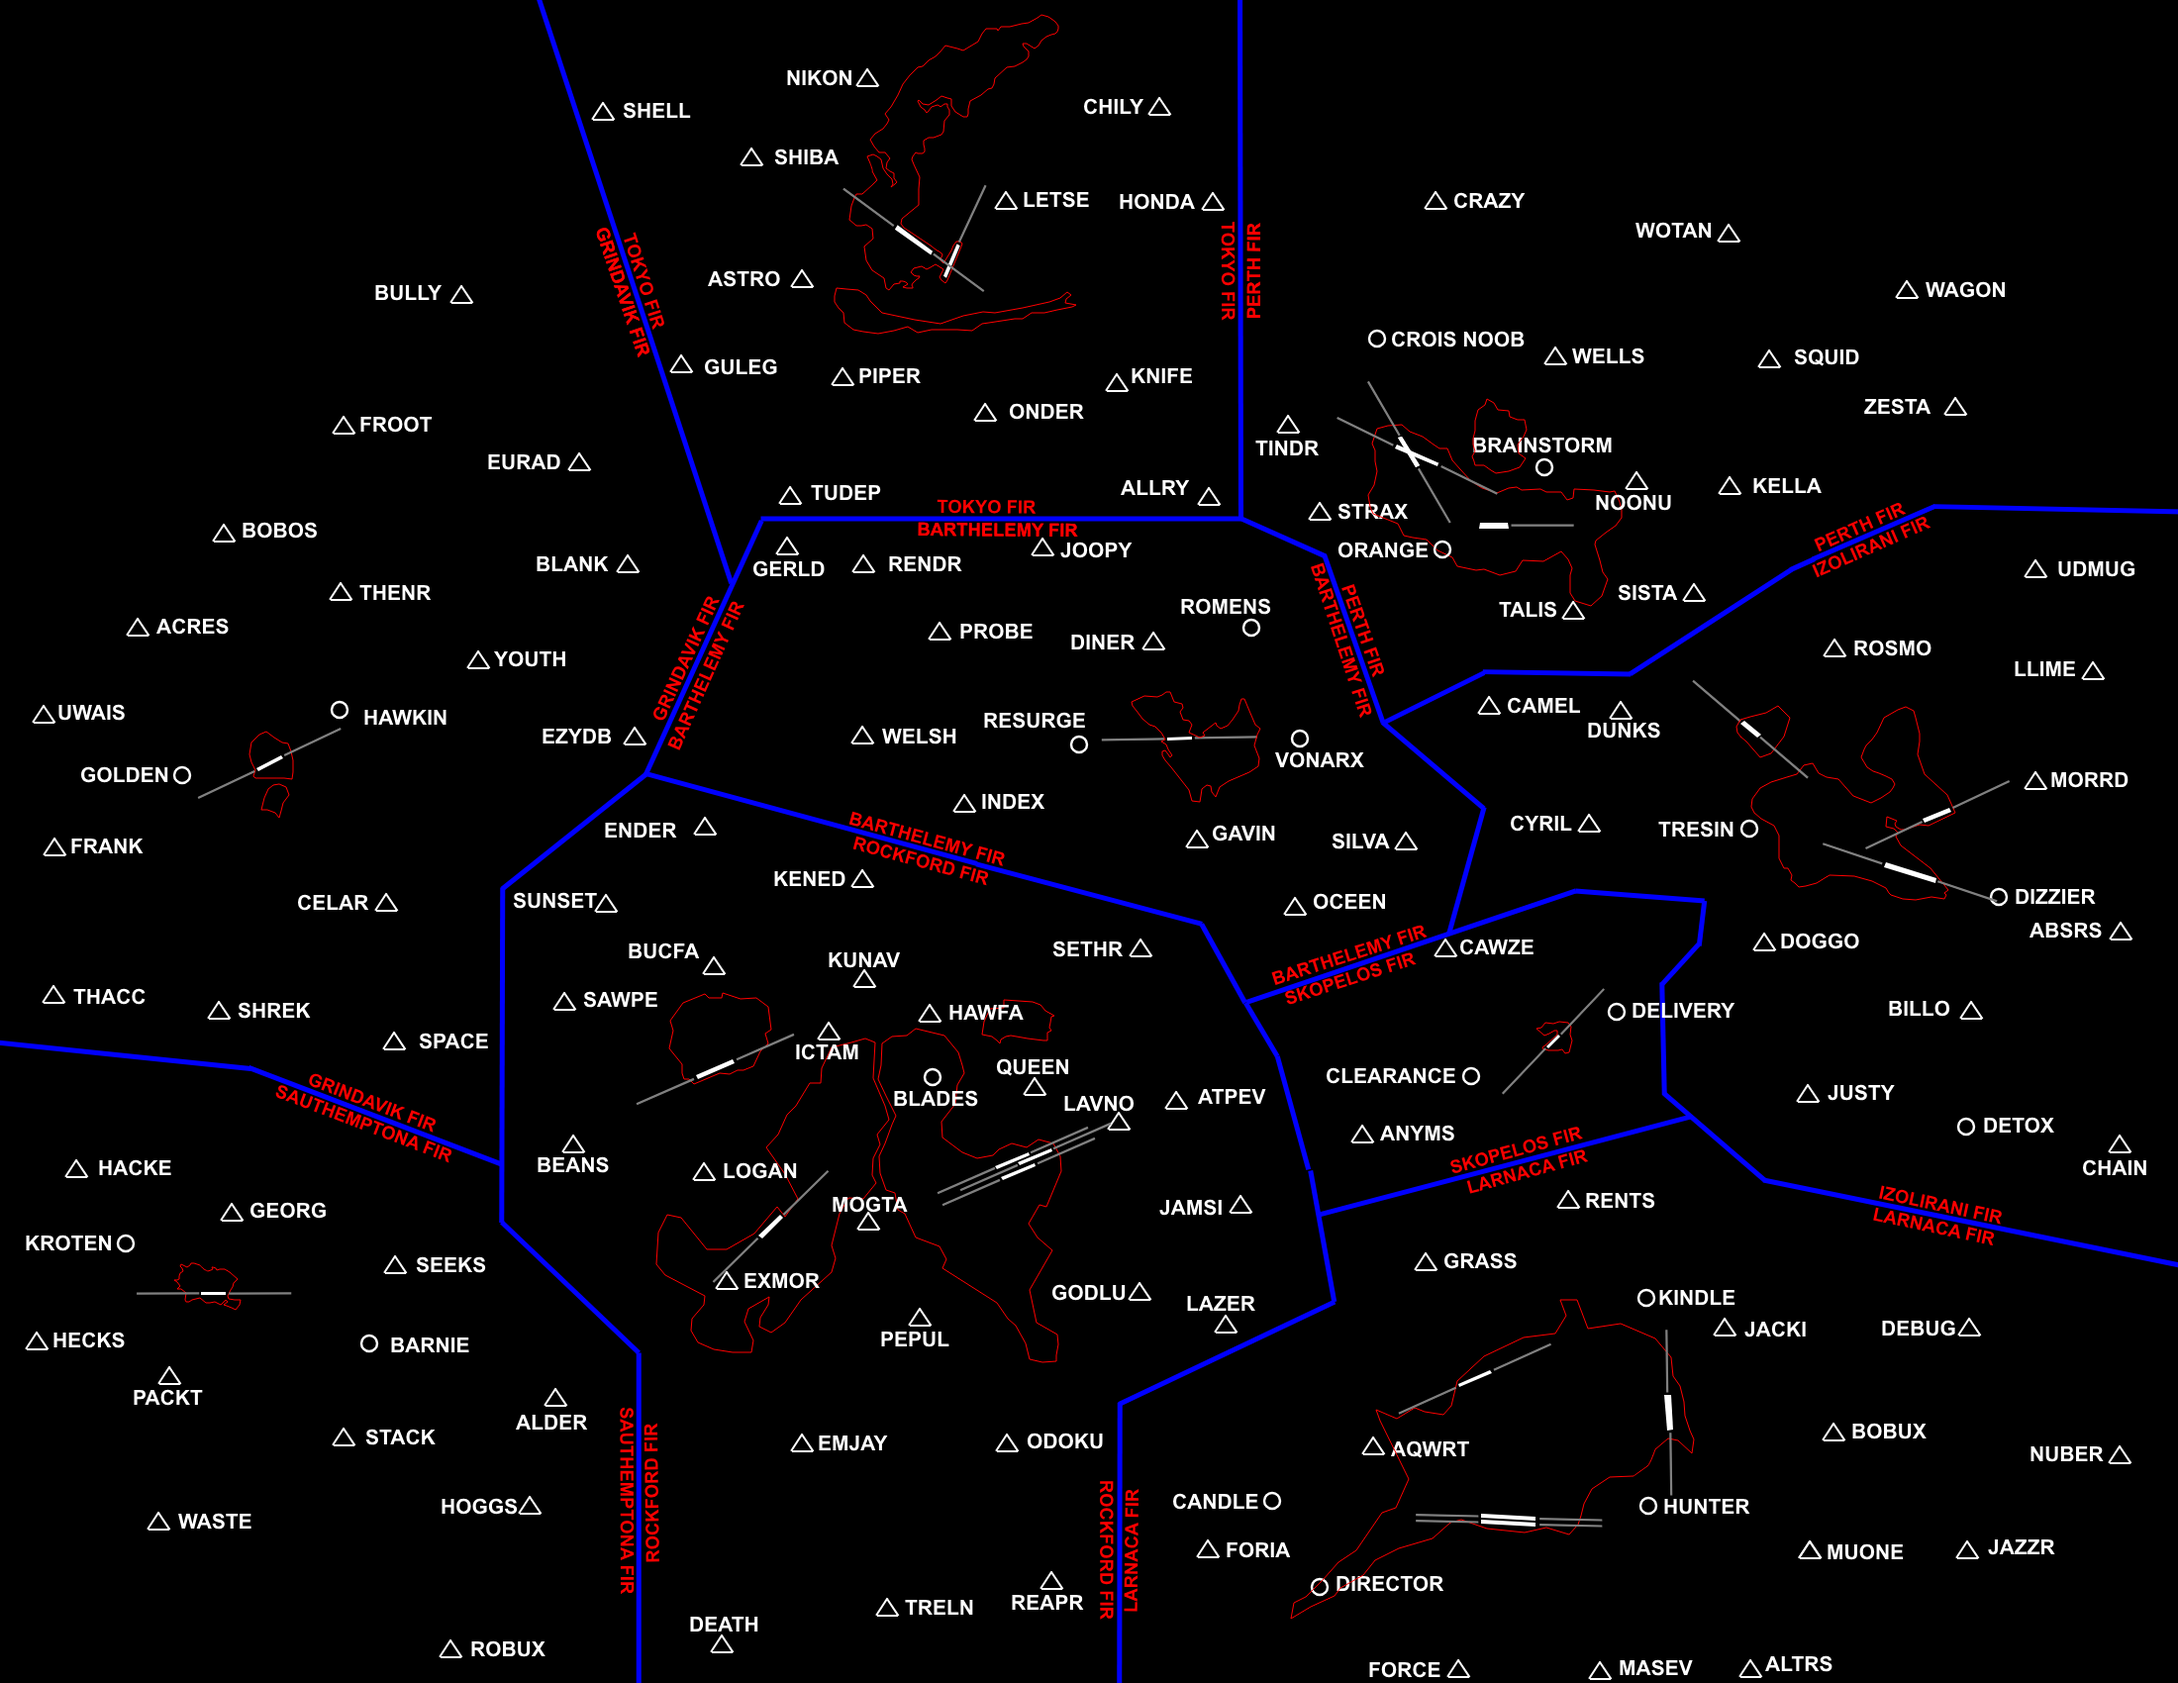
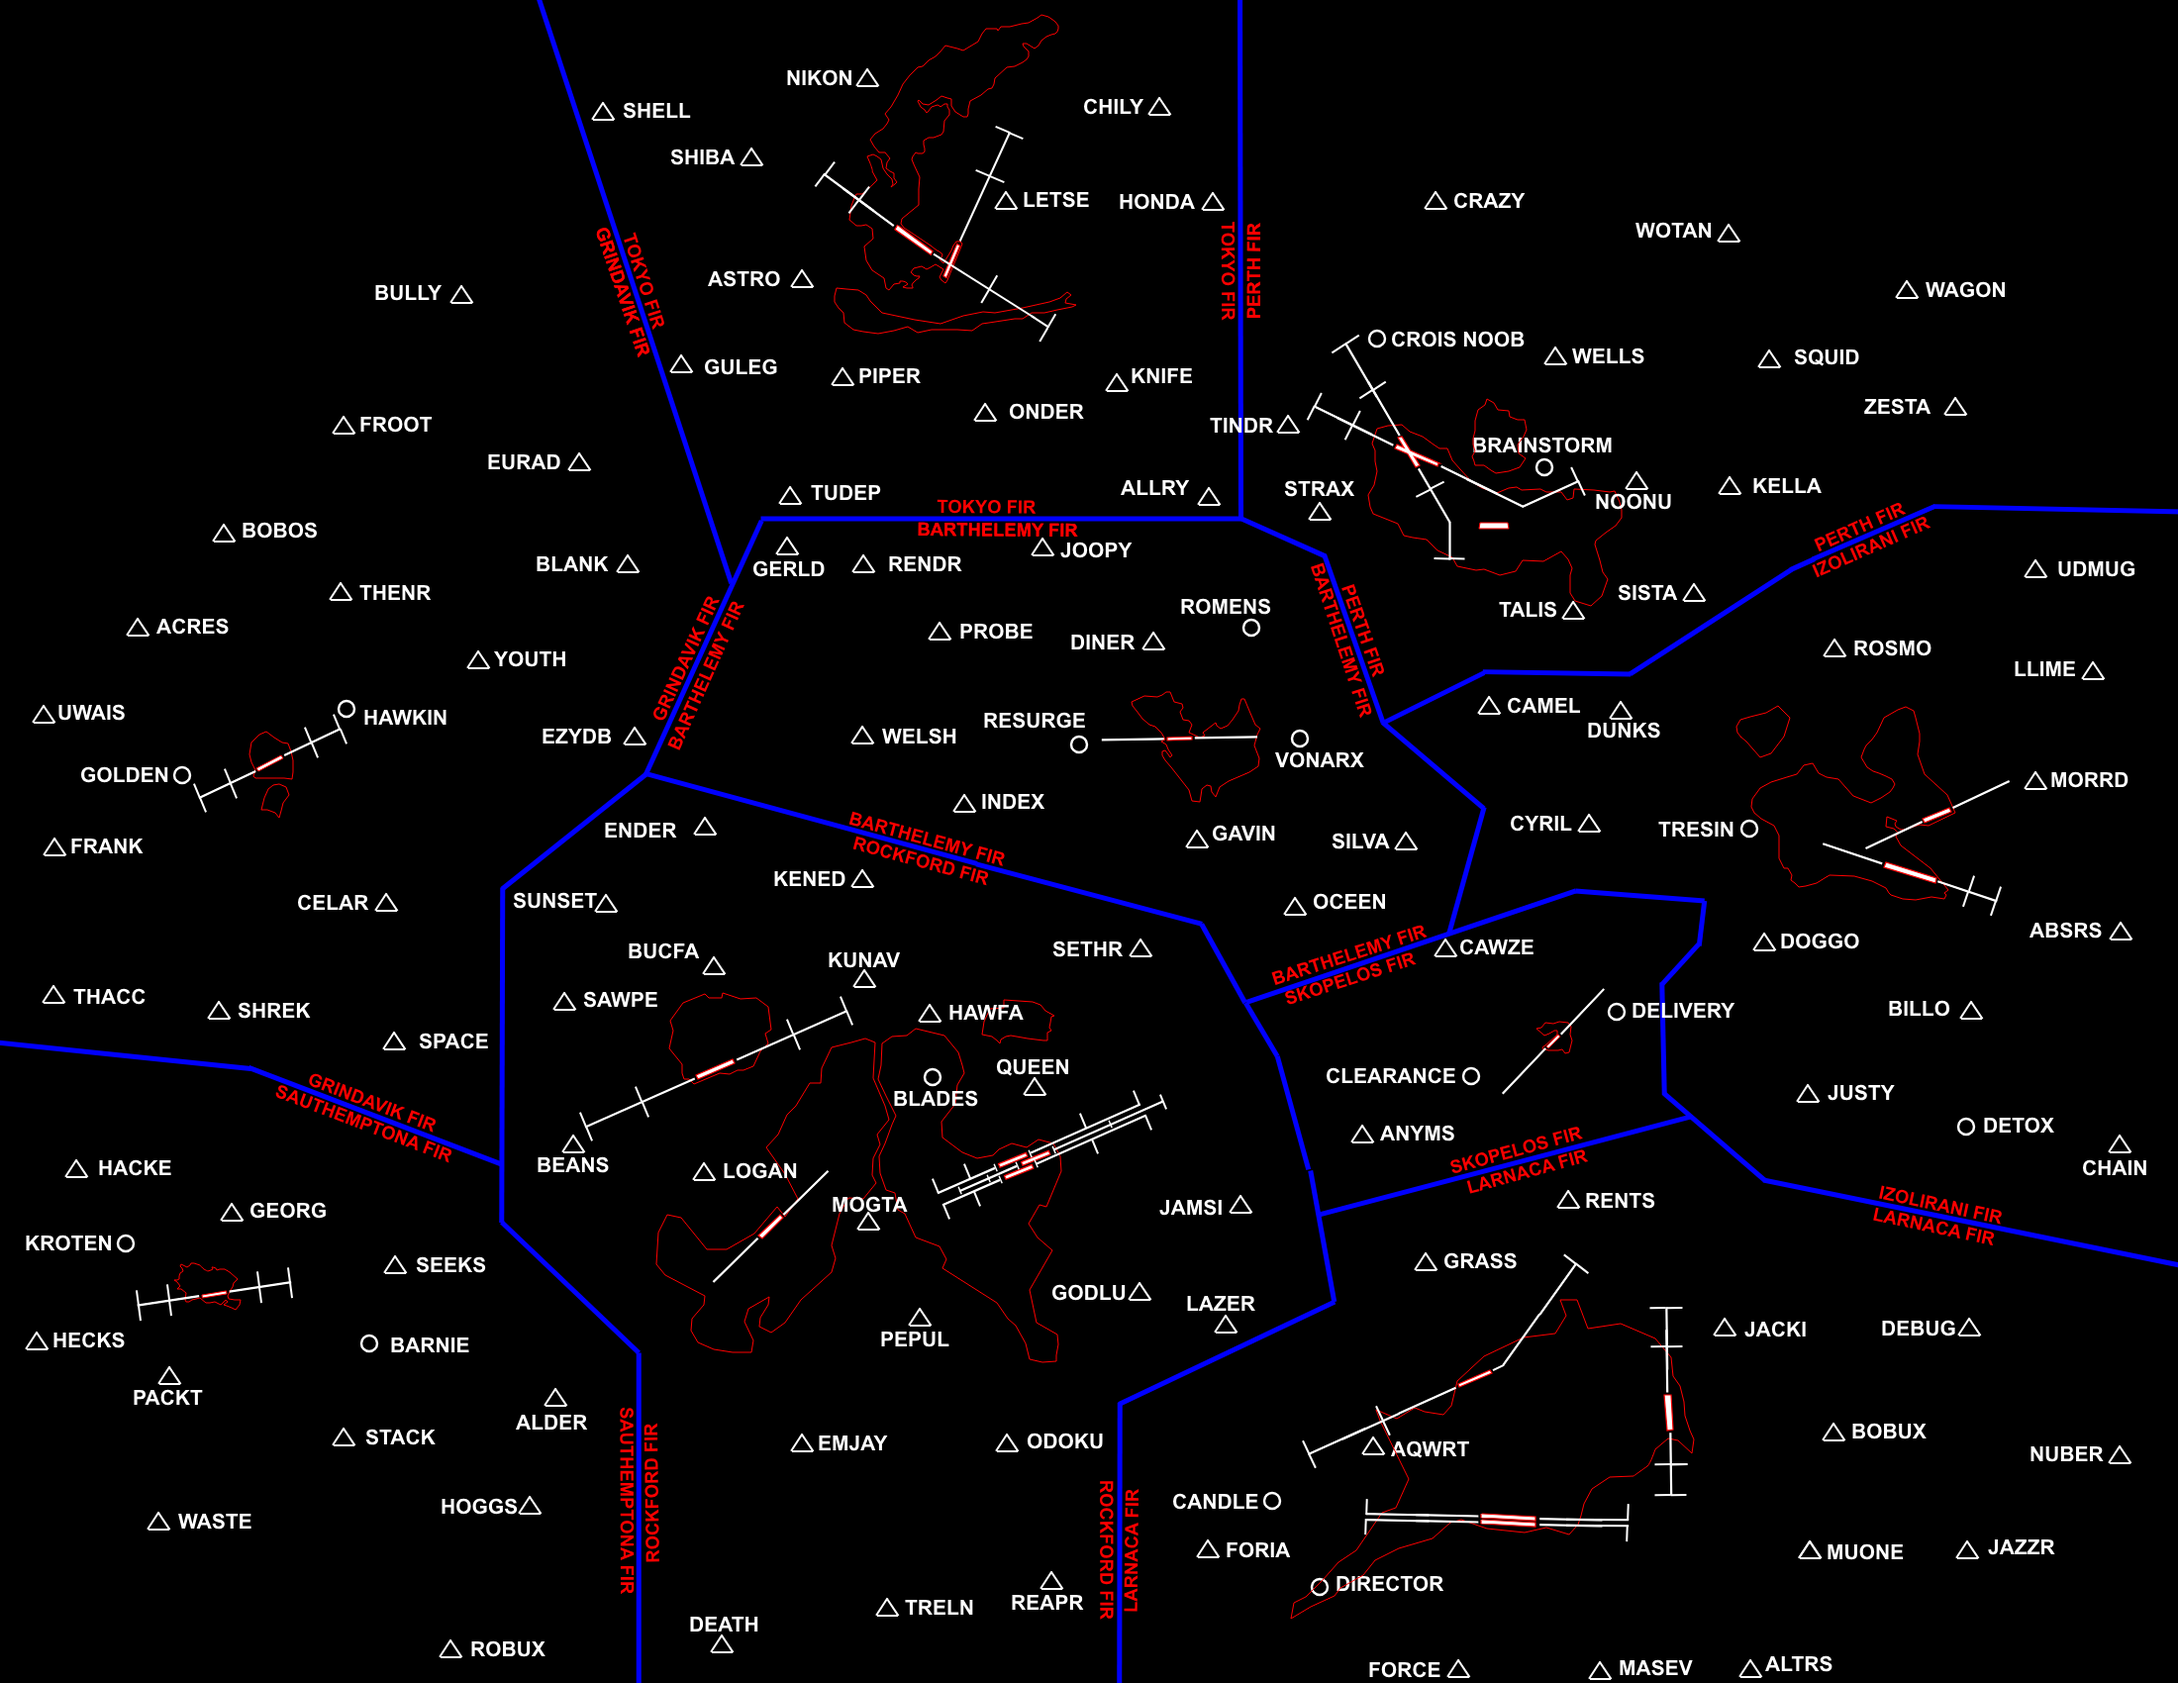
Added approach lines, pop-up introductory message

diff --git a/script.js b/script.js
@@ -1,96 +1,111 @@
-const radar = document.getElementById('radar');
-let isDragging = false;
-let startX, startY, line, headingText;
+document.addEventListener('DOMContentLoaded', () => {
+    const modal = document.getElementById('info-modal');
+    const closeModalButton = document.getElementById('close-modal');
 
-function removeExistingLineAndHeading() {
-    if (line) {
-        radar.removeChild(line);
-        line = null;
+    modal.style.display = 'flex';
+
+    closeModalButton.addEventListener('click', () => {
+        modal.style.display = 'none';
+    });
+
+    window.addEventListener('click', (e) => {
+        if (e.target === modal) {
+            modal.style.display = 'none';
+        }
+    });
+
+    const radar = document.getElementById('radar');
+    let isDragging = false;
+    let startX, startY, line, headingText;
+
+    function removeExistingLineAndHeading() {
+        if (line) {
+            radar.removeChild(line);
+            line = null;
+        }
+        if (headingText) {
+            radar.removeChild(headingText);
+            headingText = null;
+        }
     }
-    if (headingText) {
-        radar.removeChild(headingText);
-        headingText = null;
-    }
-}
 
+    radar.addEventListener('contextmenu', (e) => {
+        e.preventDefault();
+    });
 
-radar.addEventListener('contextmenu', (e) => {
-    e.preventDefault();
-});
+    radar.addEventListener('mousedown', (e) => {
+        if (e.button === 0 || e.button === 2) {
+            removeExistingLineAndHeading();
 
-radar.addEventListener('mousedown', (e) => {
-    if (e.button === 0 || e.button === 2) { 
-        removeExistingLineAndHeading();
+            const rect = radar.getBoundingClientRect();
+            startX = e.clientX - rect.left;
+            startY = e.clientY - rect.top;
+            isDragging = true;
+
+            line = document.createElement('div');
+            line.classList.add('line');
+            line.style.left = `${startX}px`;
+            line.style.top = `${startY}px`;
+            radar.appendChild(line);
+        }
+    });
+
+    radar.addEventListener('mousemove', (e) => {
+        if (!isDragging) return;
 
         const rect = radar.getBoundingClientRect();
-        startX = e.clientX - rect.left;
-        startY = e.clientY - rect.top;
-        isDragging = true;
+        const currentX = e.clientX - rect.left;
+        const currentY = e.clientY - rect.top;
 
-        line = document.createElement('div');
-        line.classList.add('line');
-        line.style.left = `${startX}px`;
-        line.style.top = `${startY}px`;
-        radar.appendChild(line);
+        const deltaX = currentX - startX;
+        const deltaY = currentY - startY;
+
+        const length = Math.sqrt(deltaX * deltaX + deltaY * deltaY);
+        let angle = Math.atan2(deltaY, deltaX) * (180 / Math.PI);
+
+        if (angle < 0) {
+            angle += 360;
+        }
+
+        line.style.width = `${length}px`;
+        line.style.transform = `rotate(${angle}deg)`;
+
+        if (e.buttons === 1) {
+            const displayedAngle = (angle + 90) % 360;
+            displayHeadingText(`${padNumber(Math.round(displayedAngle))}°`, (startX + currentX) / 2, (startY + currentY) / 2);
+        } else if (e.buttons === 2) {
+            const distanceInNauticalMiles = (length / 39.92) * 0.6447084;
+            displayHeadingText(`${distanceInNauticalMiles.toFixed(2)} NM`, (startX + currentX) / 2, (startY + currentY) / 2);
+        }
+    });
+
+    radar.addEventListener('mouseup', () => {
+        if (isDragging) {
+            isDragging = false;
+        }
+    });
+
+    radar.addEventListener('mouseleave', () => {
+        if (isDragging) {
+            isDragging = false;
+            removeExistingLineAndHeading();
+        }
+    });
+
+    function padNumber(number) {
+        return number.toString().padStart(3, '0');
+    }
+
+    function displayHeadingText(text, midX, midY) {
+        if (headingText) {
+            radar.removeChild(headingText);
+        }
+
+        headingText = document.createElement('div');
+        headingText.classList.add('heading');
+        headingText.textContent = text;
+        headingText.style.left = `${midX}px`;
+        headingText.style.top = `${midY}px`;
+        radar.appendChild(headingText);
     }
 });
-
-radar.addEventListener('mousemove', (e) => {
-    if (!isDragging) return;
-
-    const rect = radar.getBoundingClientRect();
-    const currentX = e.clientX - rect.left;
-    const currentY = e.clientY - rect.top;
-
-    const deltaX = currentX - startX;
-    const deltaY = currentY - startY;
-
-    const length = Math.sqrt(deltaX * deltaX + deltaY * deltaY);
-    let angle = Math.atan2(deltaY, deltaX) * (180 / Math.PI);
-
-    if (angle < 0) {
-        angle += 360;
-    }
-
-    line.style.width = `${length}px`;
-    line.style.transform = `rotate(${angle}deg)`;
-
-    if (e.buttons === 1) { 
-        const displayedAngle = (angle + 90) % 360;
-        displayHeadingText(`${padNumber(Math.round(displayedAngle))}°`, (startX + currentX) / 2, (startY + currentY) / 2);
-    } else if (e.buttons === 2) { 
-        const distanceInNauticalMiles = (length / 39.92) * 0.6447084;
-        displayHeadingText(`${distanceInNauticalMiles.toFixed(2)} NM`, (startX + currentX) / 2, (startY + currentY) / 2);
-    }
-});
-
-radar.addEventListener('mouseup', () => {
-    if (isDragging) {
-        isDragging = false;
-    }
-});
-
-radar.addEventListener('mouseleave', () => {
-    if (isDragging) {
-        isDragging = false;
-        removeExistingLineAndHeading();
-    }
-});
-
-function padNumber(number) {
-    return number.toString().padStart(3, '0');
-}
-
-function displayHeadingText(text, midX, midY) {
-    if (headingText) {
-        radar.removeChild(headingText);
-    }
-
-    headingText = document.createElement('div');
-    headingText.classList.add('heading');
-
-    headingText.textContent = text;
-    headingText.style.left = `${midX}px`;
-    headingText.style.top = `${midY}px`;
-    radar.appendChild(headingText);
-}

diff --git a/index.html b/index.html
@@ -8,12 +8,36 @@
     <link href="https://fonts.googleapis.com/css2?family=Roboto:wght@400;700&display=swap" rel="stylesheet">
 </head>
 <body>
+    <!-- Modal HTML -->
+    <div id="info-modal">
+        <div class="modal-content">
+            <h2>Made by p1anez</h2>
+            <div class="controls">
+                <strong>Controls:</strong>
+                <ul>
+                    <li>Left-click and drag for heading tool.</li>
+                    <li>Right-click and drag for distance tool.</li>
+                </ul>
+            </div>
+            <div class="information">
+                <strong>Information:</strong>
+                <ul>
+                    <li>Some Fixes have been removed to make space for the approach lines.</li>
+                    <li>On the approach lines, the first line indicates the aircraft should be at 1000FT, the second line indicates the aircraft should be at 500FT. Except for McConnell AFB, where the lines for all runways indicate 500FT.</li>
+                    <li>Data for approach lines have been retrieved from most accurate charts, approach lines without altitude indicators either: Don't have any data, Various charts, or Don't have enough data.</li>
+                </ul>
+            </div>
+            <button id="close-modal">Roger</button>
+        </div>
+    </div>
+    
     <div id="radar">
         <div id="map-container">
             <div class="map-background"></div>
             <img id="map" src="map.png" alt="Game Map">
         </div>
     </div>
+    
     <script src="script.js"></script>
 </body>
 </html>

diff --git a/style.css b/style.css
@@ -1,3 +1,4 @@
+
 body {
     margin: 0;
     display: flex;
@@ -5,8 +6,61 @@ body {
     align-items: center;
     height: 100vh;
     background-color: #f0f0f0;
-    font-family: 'Roboto', sans-serif; 
+    font-family: 'Roboto', sans-serif;
 }
+
+
+#info-modal {
+    display: none; 
+    position: fixed;
+    top: 0;
+    left: 0;
+    width: 100%;
+    height: 100%;
+    background: rgba(0, 0, 0, 0.5); 
+    justify-content: center;
+    align-items: center;
+    z-index: 1000;
+}
+
+.modal-content {
+    background: white;
+    padding: 20px;
+    border-radius: 15px;
+    max-width: 500px;
+    width: 90%;
+    box-shadow: 0 0 10px rgba(0, 0, 0, 0.1);
+    text-align: center;
+}
+
+.controls, .information {
+    margin-top: 10px;
+    text-align: left;
+}
+
+.controls ul, .information ul {
+    list-style-type: none;
+    padding: 0;
+}
+
+.controls li, .information li {
+    margin: 5px 0;
+}
+
+button {
+    background-color: #007bff;
+    color: white;
+    border: none;
+    padding: 10px 20px;
+    border-radius: 10px;
+    cursor: pointer;
+    font-size: 16px;
+}
+
+button:hover {
+    background-color: #0056b3;
+}
+
 
 #radar {
     position: relative;
@@ -52,5 +106,5 @@ body {
     transform: translate(-50%, -50%);
     z-index: 3;
     font-weight: bold;
-    font-family: 'Roboto', sans-serif; 
+    font-family: 'Roboto', sans-serif;
 }
